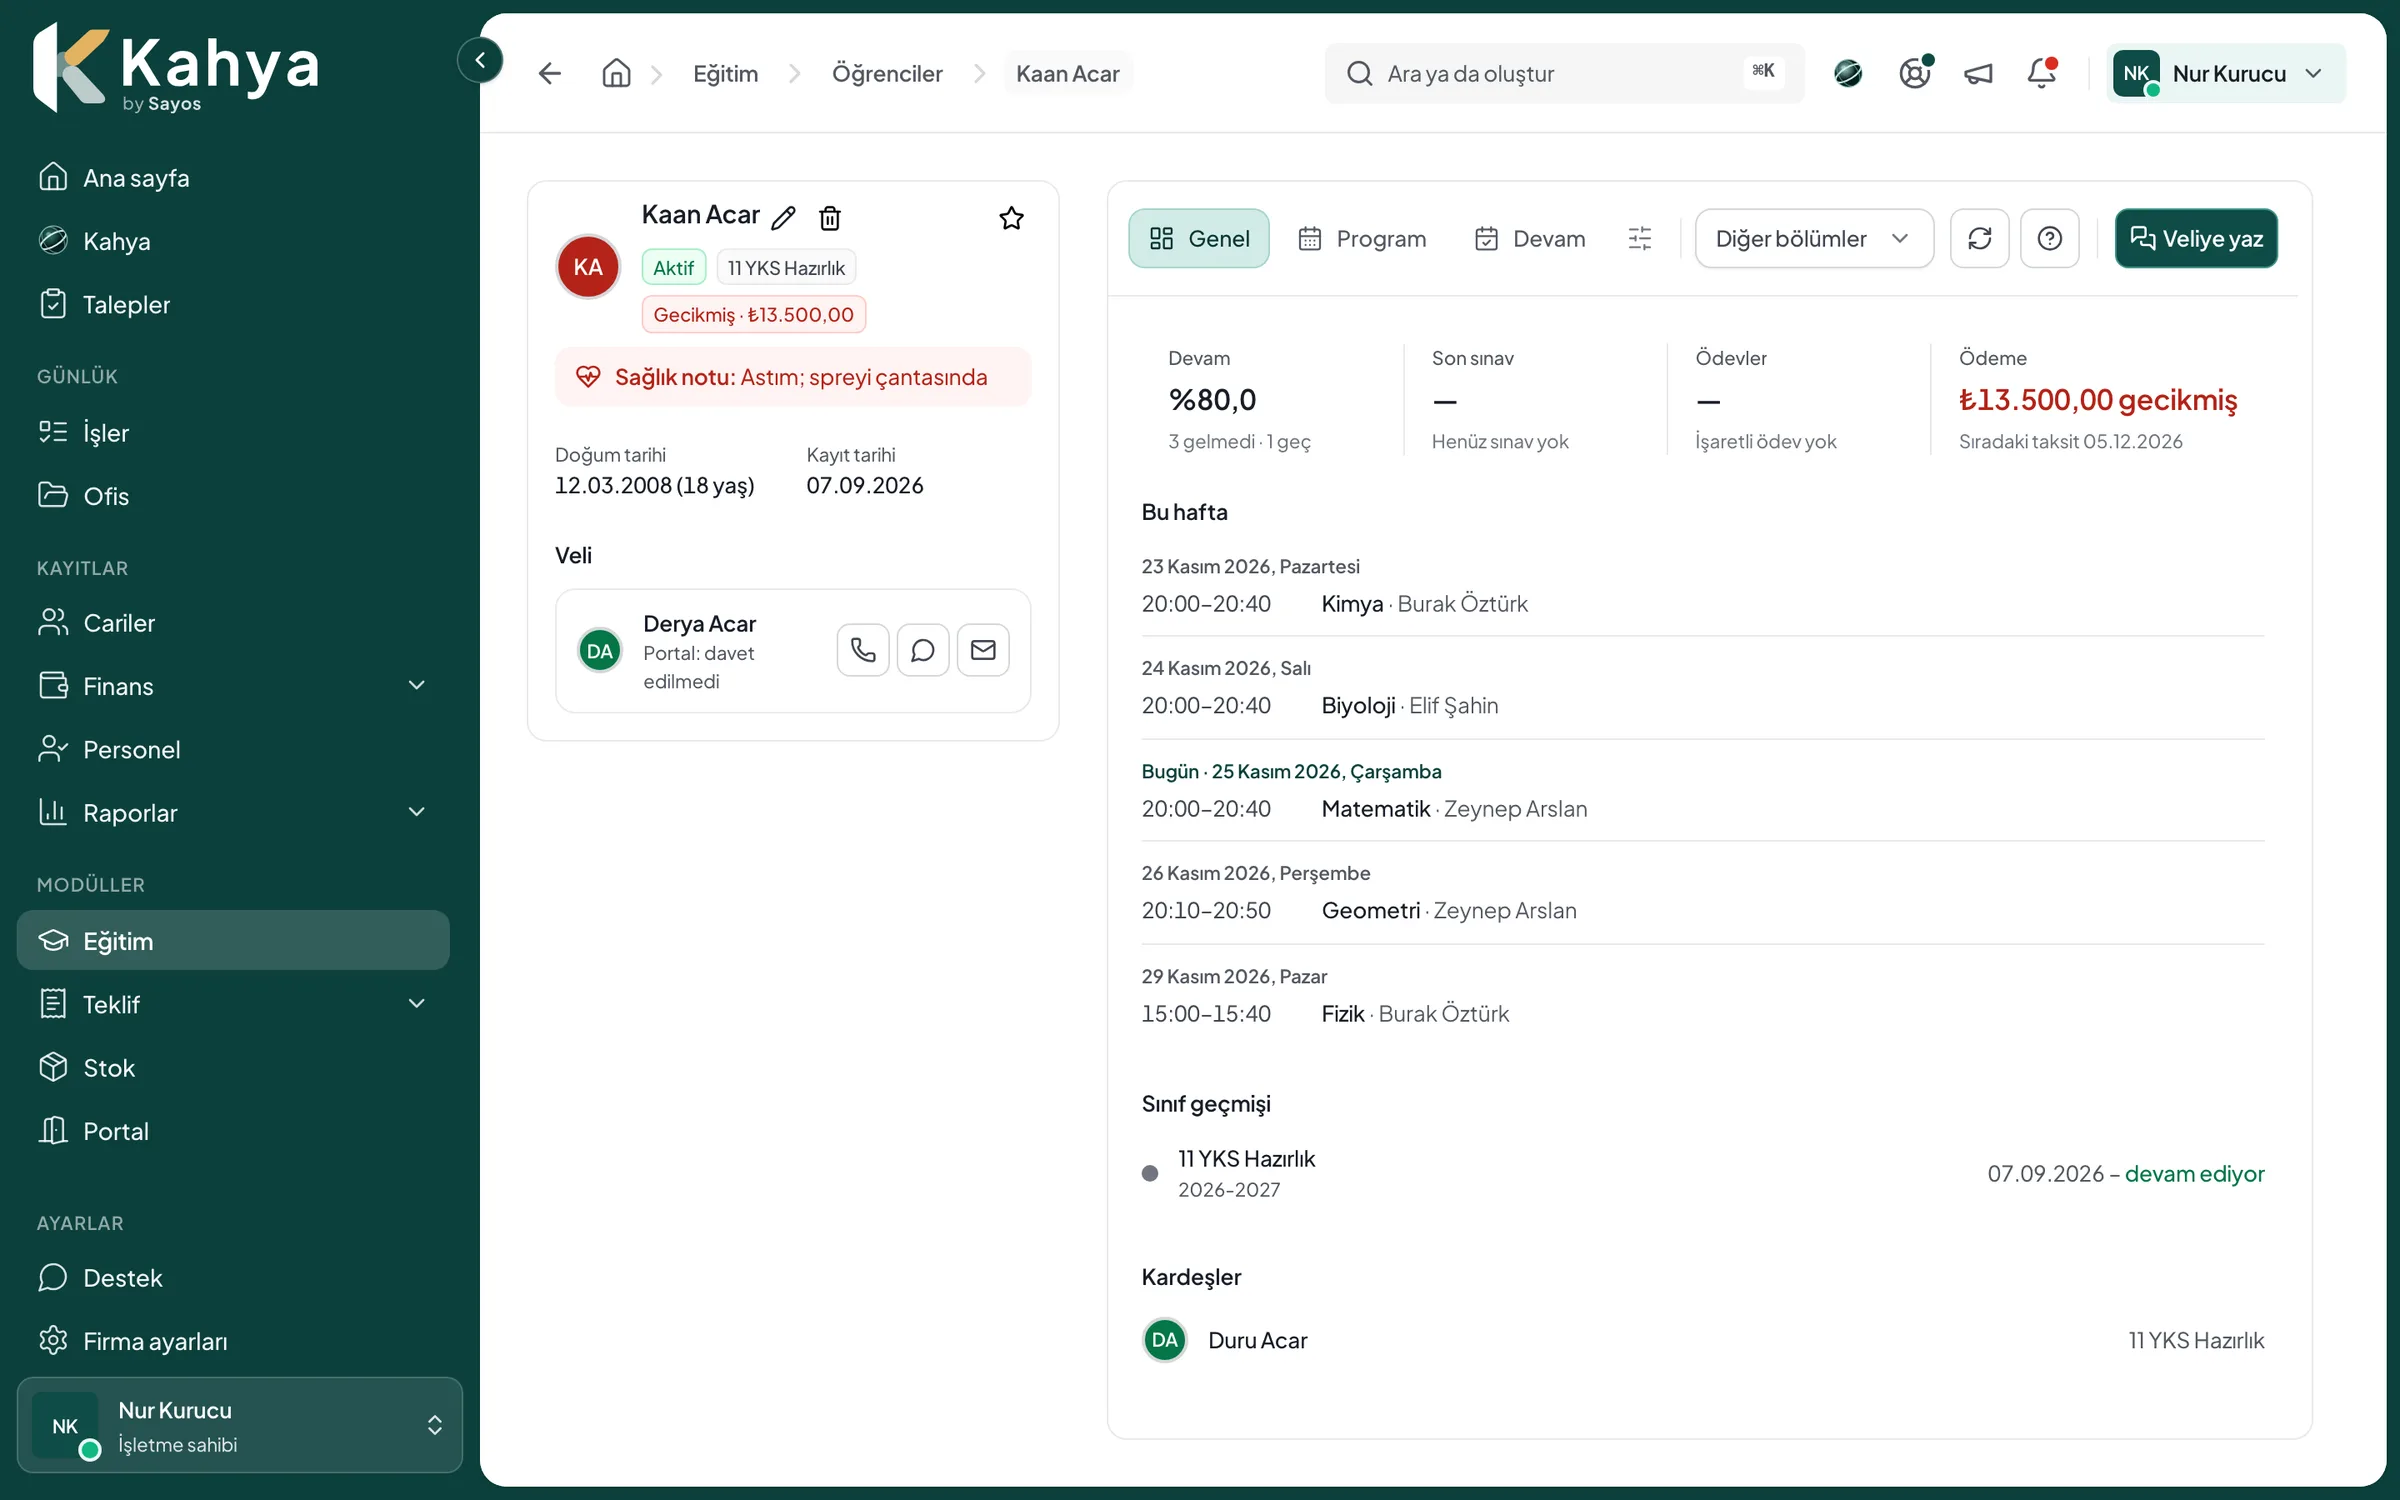
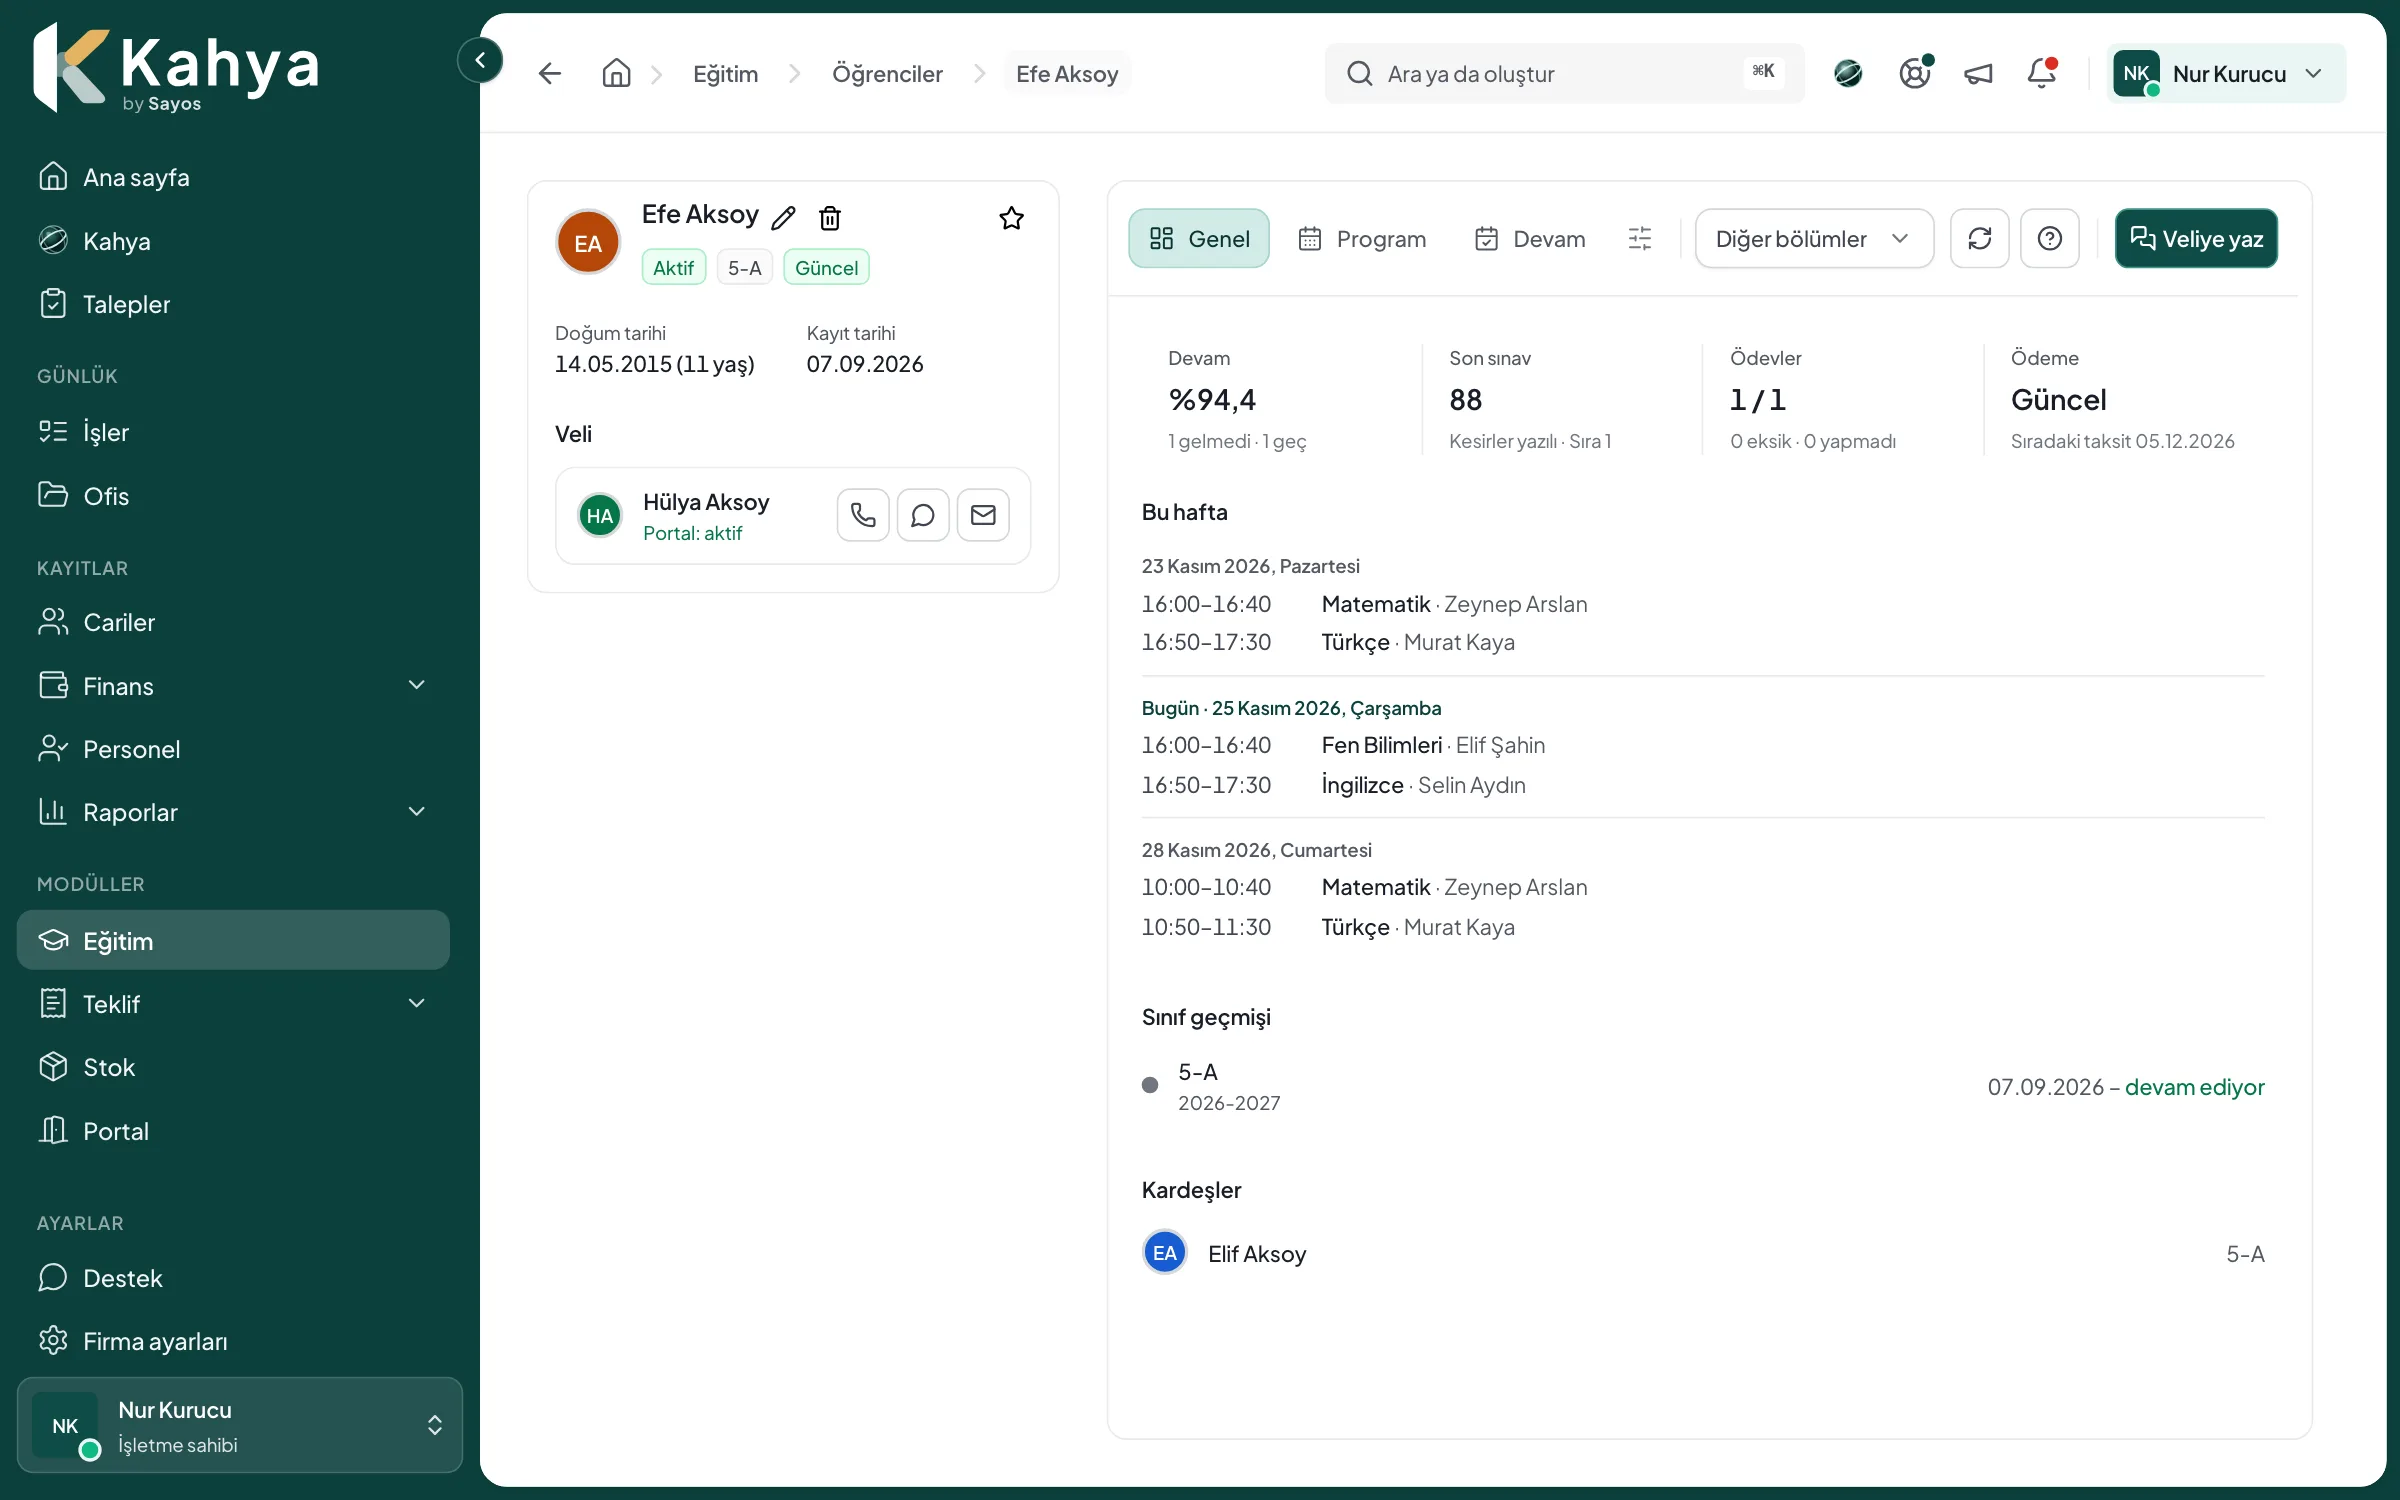
content: docs-gap N3 + N5 — genel portal sayfasında firma müşterisi ekranı (Demo Ofis), Eğitim öğrenci karesi sağlık notu olmadan; deneme listesinde ek hizmet adı

diff --git a/src/content/addons.ts b/src/content/addons.ts
@@ -291,8 +291,8 @@ export const addons: Addon[] = [
     },
     title: "Müşteriniz borcunu ve taksitini kendisi görür, sizi aramaz",
     lead: "Müşterinize kendi hesabını açarsınız. Firmanızın adı ve logosuyla açılan portalda bakiyesini, sıradaki ödemesini, hesap ekstresini, paylaştığınız belgeleri ve duyurularınızı görür; ödediğini oradan bildirir.",
-    screen: { src: "/media/portal/odemeler.webp", alt: "Kahya müşteri portalı: velinin ödenecek tutarı, gecikmiş ödemesi ve taksitleri. Örnek veri.", width: 2400, height: 1500 },
-    phone: { src: "/media/portal/odemeler-tel.webp", alt: "Telefonda müşteri portalı: ödemeler ve sıradaki taksit. Örnek veri.", time: "09.41" },
+    screen: { src: "/media/portal/musteri-hesap.webp", alt: "Kahya müşteri portalı: bir firma müşterisinin ödenecek tutarı, sıradaki ödemesi ve ödeme planları. Örnek veri.", width: 2400, height: 1500 },
+    phone: { src: "/media/portal/odemeler-tel.webp", alt: "Telefonda veli portalı: ödemeler ve sıradaki taksit. Örnek veri.", time: "09.41" },
     when: [
       "Ne kadar borcu kaldığını soran müşteri her gün telefon ediyor.",
       "Ekstreyi ve sözleşmeyi her istendiğinde tek tek gönderiyorsunuz.",

diff --git a/src/content/faq.ts b/src/content/faq.ts
@@ -52,7 +52,7 @@ export const pricingFaq = [
   },
   {
     q: "Deneme süresi var mı?",
-    a: "Evet. Kayıt olan her firma 30 gün boyunca Kurumsal paketi dener. E-posta, Filo, Kahya AI, Portal ve Eğitim ek hizmetleri bu sürede kapalıdır, talep ile açılır. Süre bitince firma Ücretsiz pakete geçer, verileri yerinde kalır.",
+    a: "Evet. Kayıt olan her firma 30 gün boyunca Kurumsal paketi dener. E-posta, Filo, Kahya AI, Müşteri portalı ve Eğitim ek hizmetleri bu sürede kapalıdır, talep ile açılır. Süre bitince firma Ücretsiz pakete geçer, verileri yerinde kalır.",
   },
   {
     q: "Nasıl satın alırım?",
